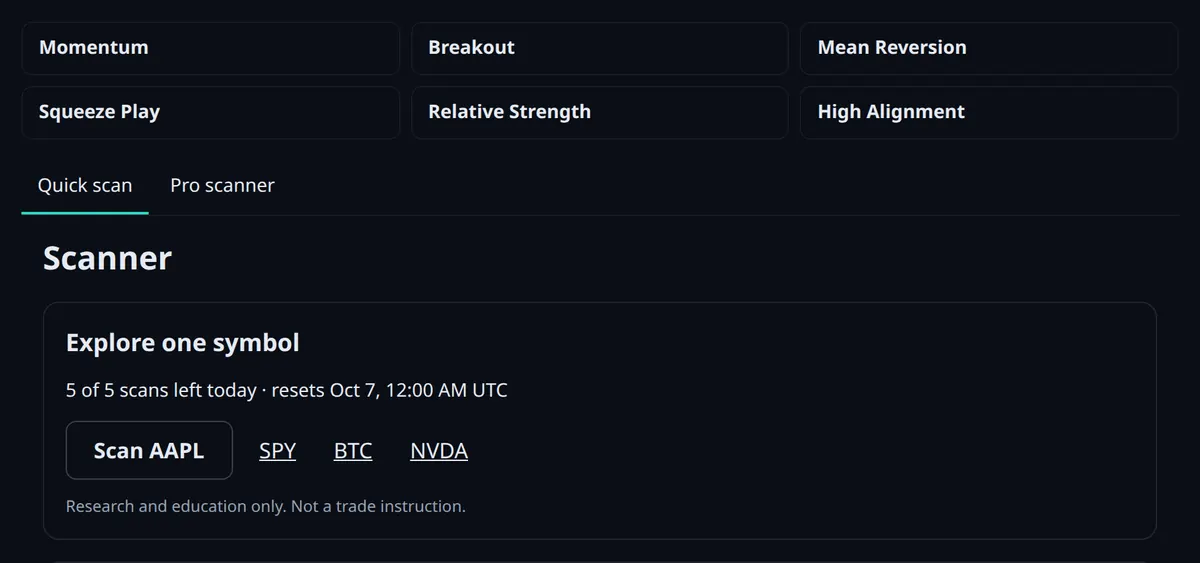
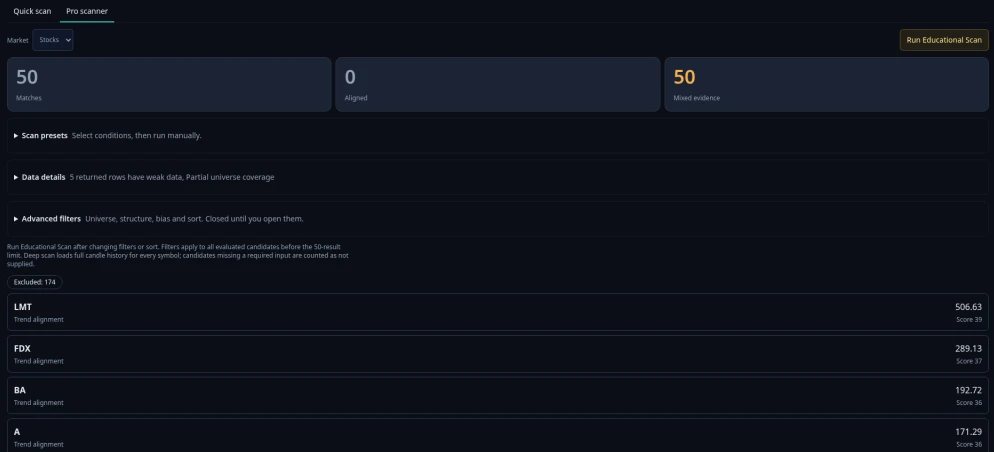
Homepage: use the signed-in Pro screenshots
Swap in the supplied Scanner and Symbol captures at their real sizes, and caption them as the Pro view from 7 Oct 2026.

diff --git a/components/home/HomePreviewStrip.tsx b/components/home/HomePreviewStrip.tsx
@@ -4,30 +4,36 @@ import Link from 'next/link';
 /**
  * HomePreviewStrip
  * --------------------------------------------------------------
- * Dated production screenshots of the Scanner and Symbol pages,
- * captured signed-out. Captions use the Sydney capture date.
+ * Dated production screenshots of the signed-in Pro Scanner and
+ * Symbol pages. Captions use the Sydney capture date.
  */
 
-const CAPTION = "Real screenshot, taken 7 Oct 2026. Open the tool for today's market.";
+const CAPTION = "Real screenshot of the Pro view, taken 7 Oct 2026. Open the tool for today's market.";
 
 const previews = [
   {
     href: '/tools/scanner',
     src: '/home/scanner-2026-10-07.webp',
-    width: 1200,
-    height: 563,
-    alt: 'The Scanner page: preset choices, Quick scan and Pro scanner, and a one-symbol scan for AAPL, SPY, BTC and NVDA.',
+    width: 994,
+    height: 452,
+    alt: 'Pro scanner results for stocks: a list of candidates such as LMT, FDX, BA with prices and scores',
+    sizes: '(max-width: 768px) 100vw, 994px',
+    unoptimized: false,
     ring: 'focus-visible:ring-emerald-400/60',
-    border: 'border-emerald-500/20',
+    imageClassName: 'h-auto w-full max-w-full rounded-xl border border-emerald-500/20',
+    imageStyle: { width: '100%', height: 'auto' } as const,
   },
   {
     href: '/tools/golden-egg',
     src: '/home/golden-egg-2026-10-07.webp',
-    width: 1200,
-    height: 477,
-    alt: 'The Symbol page for AAPL as a signed-out visitor: the research snapshot line and the public panel covering regime, indicators, scenario levels and volatility context.',
+    width: 626,
+    height: 282,
+    alt: 'Symbol page for AAPL: price, setup status, 90-day price chart, 20-day average, max pain and expected move',
+    sizes: '(max-width: 768px) 100vw, 626px',
+    unoptimized: true,
     ring: 'focus-visible:ring-amber-400/60',
-    border: 'border-amber-500/20',
+    imageClassName: 'h-auto w-auto max-w-full rounded-xl border border-amber-500/20',
+    imageStyle: { width: 'auto', maxWidth: 'min(100%, 626px)', height: 'auto' } as const,
   },
 ] as const;
 
@@ -53,10 +59,11 @@ export default function HomePreviewStrip() {
                 alt={preview.alt}
                 width={preview.width}
                 height={preview.height}
-                sizes="(min-width: 768px) 50vw, 100vw"
+                sizes={preview.sizes}
                 loading="lazy"
-                className={`h-auto w-full max-w-full rounded-xl border ${preview.border}`}
-                style={{ width: '100%', height: 'auto' }}
+                unoptimized={preview.unoptimized}
+                className={preview.imageClassName}
+                style={preview.imageStyle}
               />
               <p className="mt-1.5 text-xs leading-5 text-slate-300">{CAPTION}</p>
             </Link>

diff --git a/test/homeHonestHero.test.tsx b/test/homeHonestHero.test.tsx
@@ -13,7 +13,7 @@ const text = (html: string) => html
   .replace(/\s+/g, ' ')
   .trim();
 
-const CAPTION = "Real screenshot, taken 7 Oct 2026. Open the tool for today's market.";
+const CAPTION = "Real screenshot of the Pro view, taken 7 Oct 2026. Open the tool for today's market.";
 const BANNED = /signal|edge|win rate|guaranteed|\barca\b|arcxa|active sigs|confluence/i;
 
 describe('Homepage PR 2: honest preview and new headline', () => {
@@ -36,6 +36,13 @@ describe('Homepage PR 2: honest preview and new headline', () => {
     expect(html).toContain('scanner-2026-10-07.webp');
     expect(html).toContain('golden-egg-2026-10-07.webp');
     expect(html).toContain('loading="lazy"');
+    expect(html).toContain('width="994"');
+    expect(html).toContain('height="452"');
+    expect(html).toContain('width="626"');
+    expect(html).toContain('height="282"');
+    expect(html).toContain('max-width:min(100%, 626px)');
+    expect(html).toContain('Pro scanner results for stocks: a list of candidates such as LMT, FDX, BA with prices and scores');
+    expect(html).toContain('Symbol page for AAPL: price, setup status, 90-day price chart, 20-day average, max pain and expected move');
     const alts = [...html.matchAll(/\balt="([^"]*)"/g)].map((match) => match[1]);
     expect(alts).toHaveLength(2);
     for (const alt of alts) {
